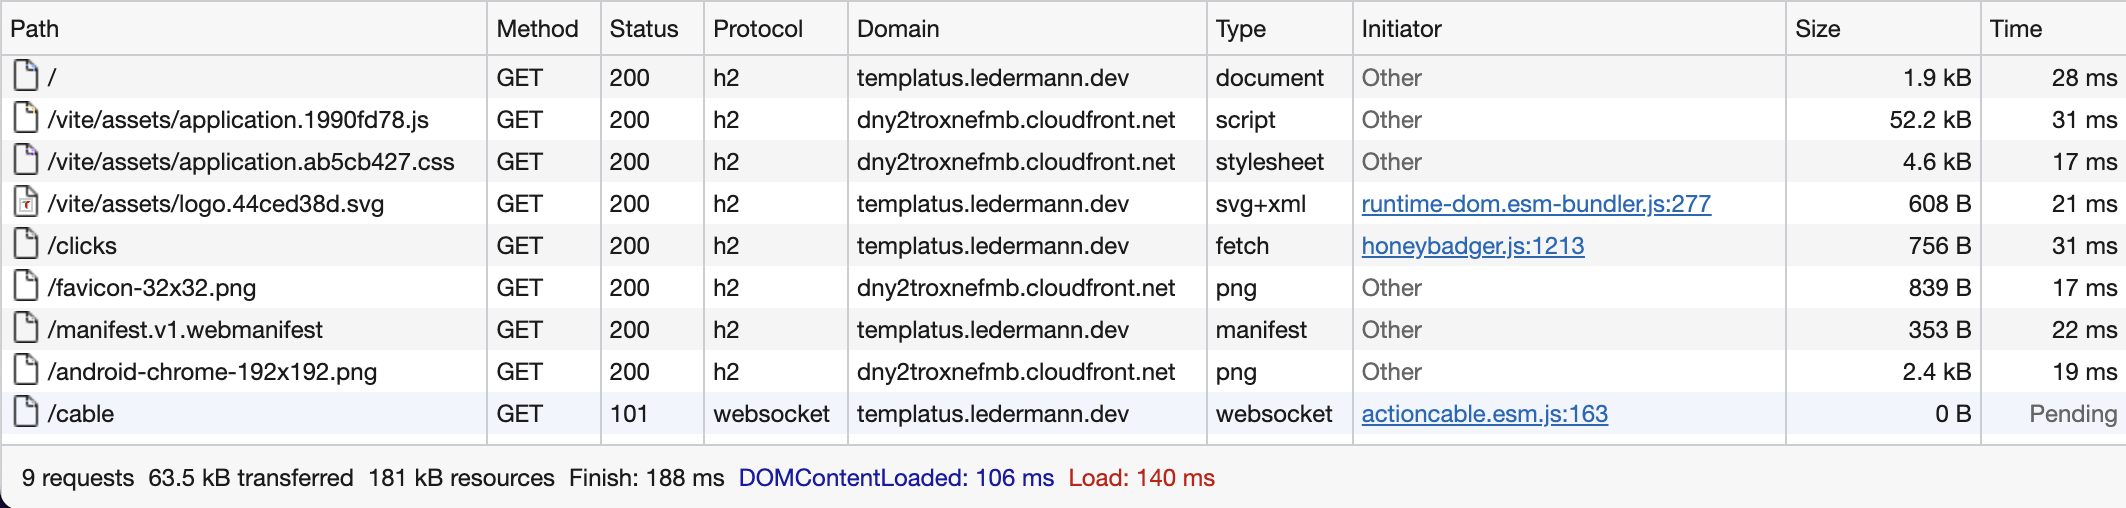
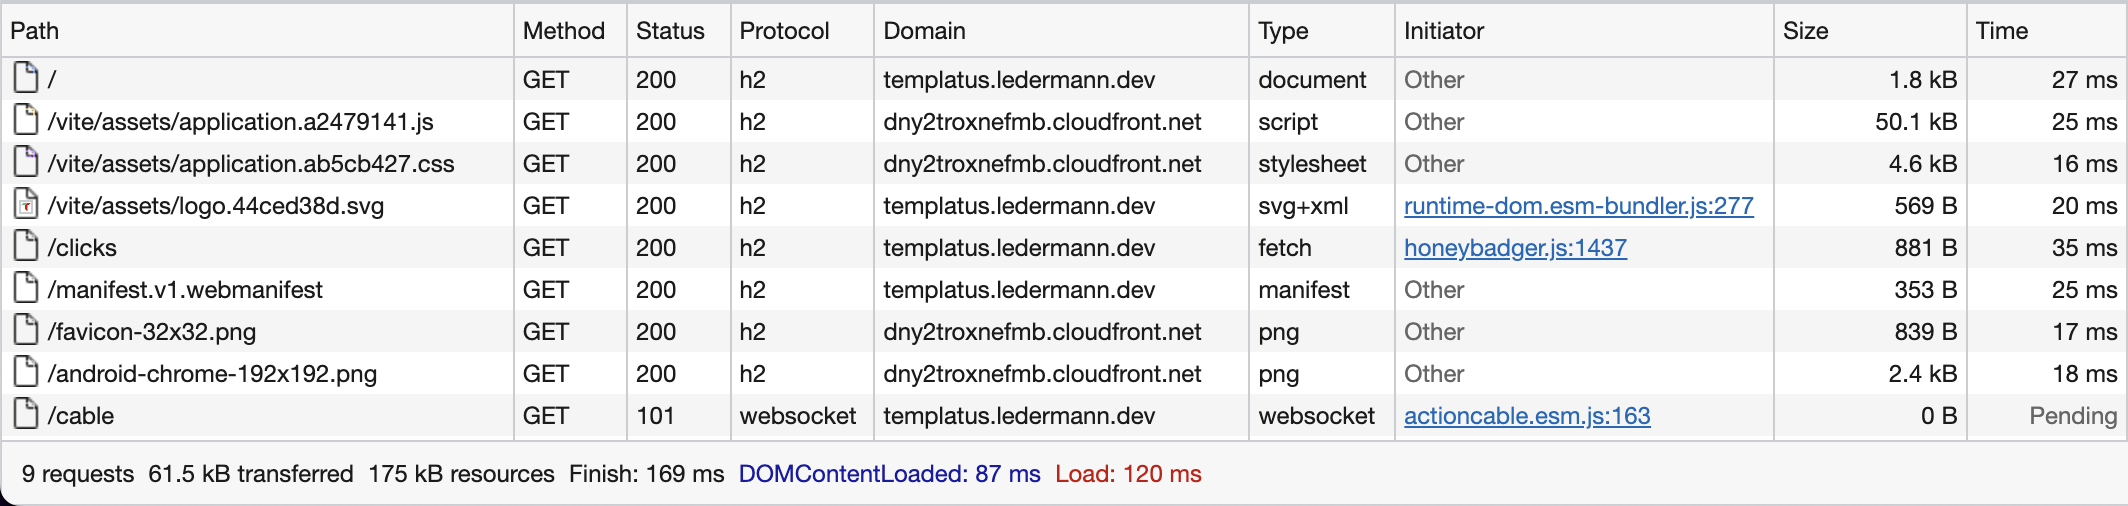
Drop headlessui

diff --git a/app/javascript/src/components/AppHeader.vue b/app/javascript/src/components/AppHeader.vue
@@ -1,5 +1,4 @@
 <script setup lang="ts">
-import { TabGroup, TabList, Tab } from '@headlessui/vue';
 import logoPath from '../../images/logo.svg';
 
 const tabs: {
@@ -23,25 +22,22 @@ const tabs: {
       height="150"
     />
 
-    <TabGroup>
-      <TabList
-        class="flex space-x-5 text-center text-lg font-medium uppercase lg:flex-col lg:space-y-5 lg:space-x-0"
-        as="nav"
+    <nav
+      class="flex space-x-5 text-center text-lg font-medium uppercase lg:flex-col lg:space-y-5 lg:space-x-0"
+    >
+      <router-link
+        v-for="tab in tabs"
+        :key="tab.name"
+        :to="tab.href"
+        :class="[
+          tab.href == $route.path
+            ? 'bg-white text-rails-dark lg:bg-rails-dark lg:text-white'
+            : 'bg-transparent text-white hover:bg-slate-300 hover:text-rails-dark lg:bg-white lg:text-rails-dark',
+          'rounded-md px-2 py-1 lg:shadow',
+        ]"
       >
-        <Tab v-for="tab in tabs" :key="tab.name" as="template">
-          <router-link
-            :to="tab.href"
-            :class="[
-              tab.href == $route.path
-                ? 'bg-white text-rails-dark lg:bg-rails-dark lg:text-white'
-                : 'bg-transparent text-white hover:bg-slate-300 hover:text-rails-dark lg:bg-white lg:text-rails-dark',
-              'rounded-md px-2 py-1 lg:shadow',
-            ]"
-          >
-            {{ tab.name }}
-          </router-link>
-        </Tab>
-      </TabList>
-    </TabGroup>
+        {{ tab.name }}
+      </router-link>
+    </nav>
   </header>
 </template>

diff --git a/app/javascript/src/pages/AboutPage.vue b/app/javascript/src/pages/AboutPage.vue
@@ -95,12 +95,6 @@ const features: {
           'Intuitive, type safe, light and flexible Store for Vue using the composition api with DevTools support',
       },
       {
-        name: 'HeadlessUI',
-        href: 'https://headlessui.dev/',
-        description:
-          'Completely unstyled, fully accessible UI components, designed to integrate beautifully with Tailwind CSS.',
-      },
-      {
         name: 'Heroicons',
         href: 'https://heroicons.com/',
         description:

diff --git a/README.md b/README.md
@@ -28,7 +28,6 @@ https://github.com/ledermann/templatus-hotwire/
 - [Vue Router 4](https://next.router.vuejs.org/) for frontend routing
 - [Pinia](https://pinia.esm.dev/) for frontend state management
 - [Tailwind CSS 3](https://tailwindcss.com/) to not have to write CSS at all
-- [HeadlessUI](https://headlessui.dev/) unstyled, fully accessible UI components designed to integrate with Tailwind CSS
 - [Heroicons](https://heroicons.com/) for SVG icons as Vue components
 - [Rails Request.JS](https://github.com/rails/request.js) for AJAX requests with default headers
 
@@ -99,10 +98,9 @@ https://github.com/rails/rails/pull/41994
 
 ### JavaScript size
 
-150 KB of compiled JavaScript (after tree-shaking, minified & uncompressed). The largest parts are:
+143 KB of compiled JavaScript (after tree-shaking, minified & uncompressed). The largest parts are:
 
 - Vue.js + Vue Router (75 KB)
-- Headless UI (10 KB)
 - Honeybadger (23 KB)
 - ActionCable (9 KB)
 - Pinia (6 KB)
@@ -116,20 +114,20 @@ success Already up-to-date.
 Building with Vite ⚡
 vite v2.9.9 building for production...
 transforming...
-✓ 334 modules transformed.
+✓ 294 modules transformed.
 rendering chunks...
 ../../public/vite/assets/logo.44ced38d.svg          0.48 KiB
 ../../public/vite/manifest-assets.json              0.22 KiB
 ../../public/vite/manifest.json                     0.20 KiB
 ../../public/vite/assets/application.ab5cb427.css   20.16 KiB / gzip: 4.70 KiB
-../../public/vite/assets/application.1990fd78.js    149.92 KiB / gzip: 56.15 KiB
-../../public/vite/assets/application.1990fd78.js.map 994.81 KiB
+../../public/vite/assets/application.a2479141.js    143.16 KiB / gzip: 53.83 KiB
+../../public/vite/assets/application.a2479141.js.map 986.78 KiB
 Build with Vite complete: /Users/ledermann/Projects/templatus/public/vite
 ```
 
 ### Network transfer
 
-Small footprint: The demo application transfers only **65 KB** of data on the first visit.
+Small footprint: The demo application transfers only **62 KB** of data on the first visit.
 
 ![Network](docs/network.png)
 
